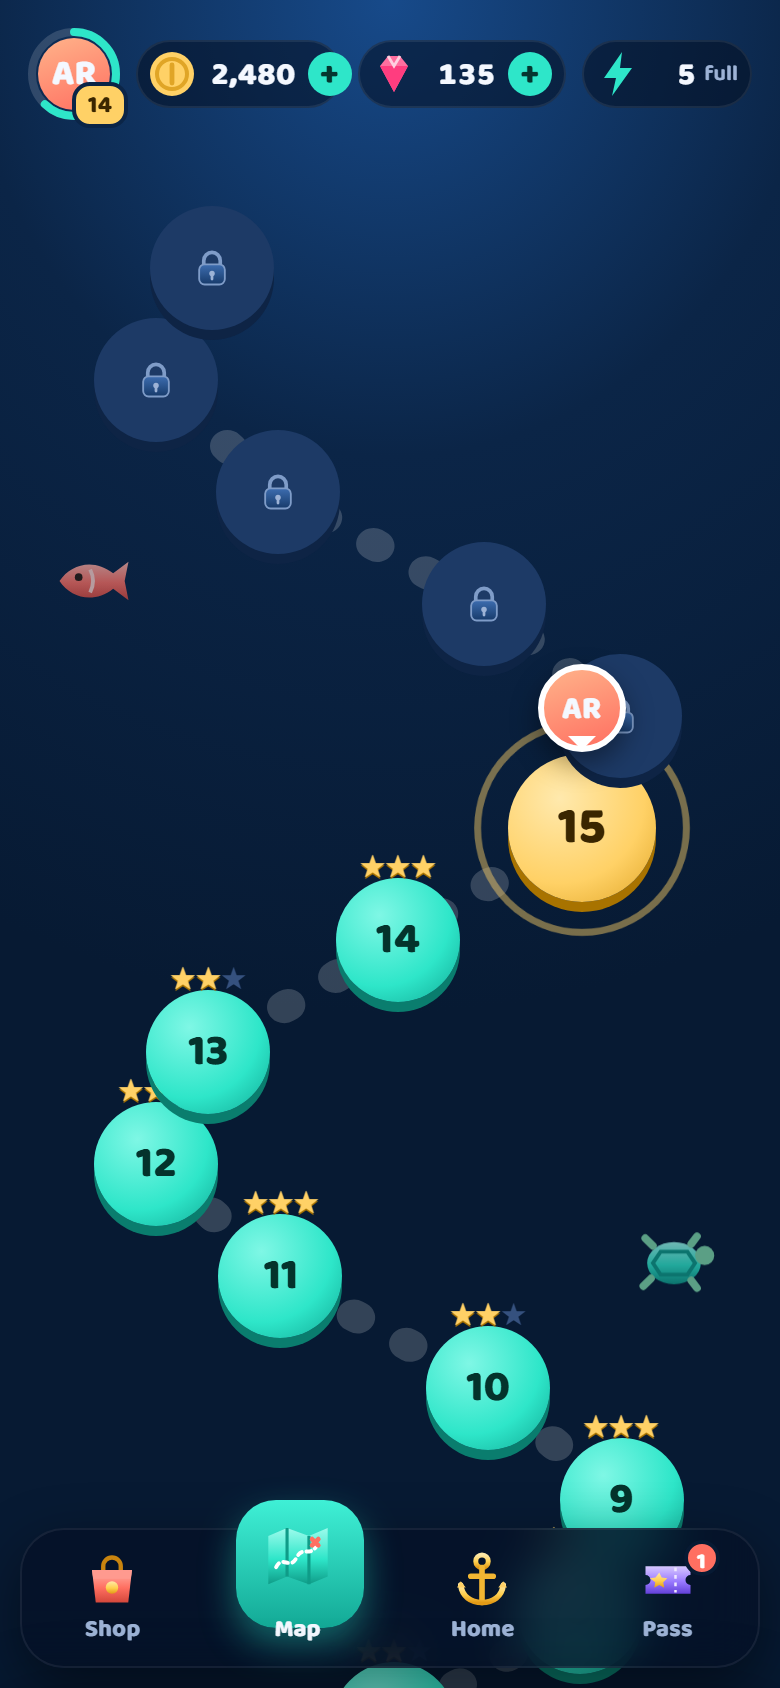
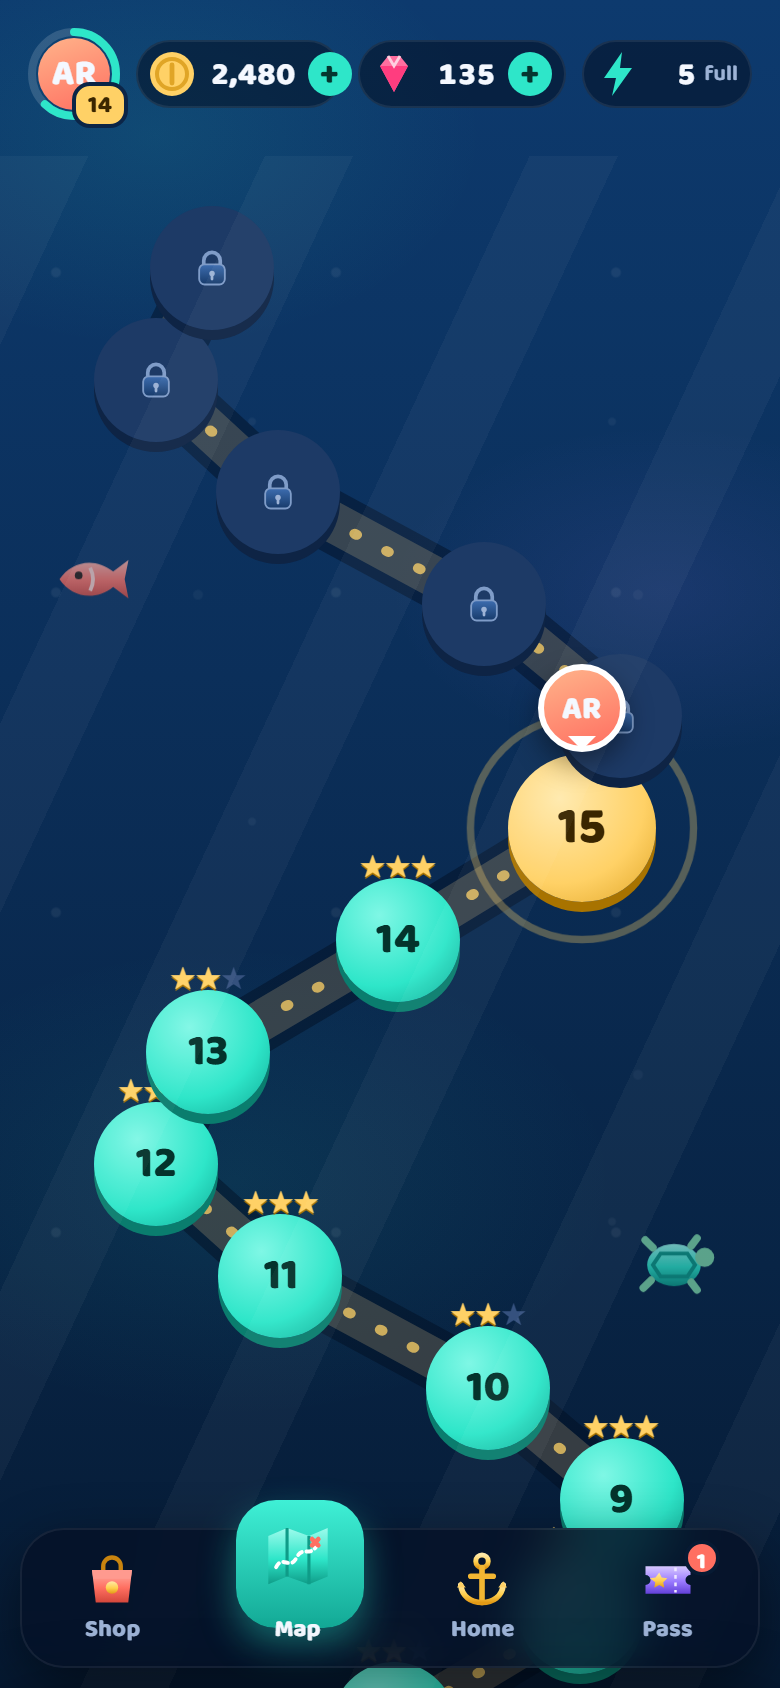
Seabed map: light rays, drifting particles, sand path

diff --git a/app.html b/app.html
@@ -103,7 +103,16 @@ h2{margin:6px 0 12px;font-size:26px;line-height:1;font-weight:800;letter-spacing
 .quest .claim{height:34px;padding:0 12px;font-size:15px;border-radius:12px}
 
 /* ---------- map ---------- */
-#map{padding-left:0;padding-right:0}
+#map{padding-left:0;padding-right:0;background:
+  radial-gradient(60% 18% at 20% 8%,rgba(46,230,201,.10),transparent 70%),
+  radial-gradient(50% 14% at 85% 35%,rgba(155,123,255,.10),transparent 70%),
+  radial-gradient(70% 20% at 30% 70%,rgba(46,230,201,.08),transparent 70%),
+  linear-gradient(180deg,#0d3a6e 0%,#0b2f5a 40%,#082445 75%,#061a33 100%)}
+.map-wrap::before{content:"";position:absolute;inset:0;pointer-events:none;opacity:.35;
+  background-image:radial-gradient(circle at 20% 30%,rgba(255,255,255,.18) 0 2px,transparent 3px),radial-gradient(circle at 70% 60%,rgba(255,255,255,.14) 0 1.5px,transparent 2.5px),radial-gradient(circle at 45% 85%,rgba(255,255,255,.12) 0 2px,transparent 3px);
+  background-size:140px 160px,180px 200px,220px 240px;animation:drift-up 18s linear infinite}
+@keyframes drift-up{to{background-position:0 -480px,0 -600px,0 -720px}}
+.map-wrap::after{content:"";position:absolute;inset:0;pointer-events:none;background:repeating-linear-gradient(115deg,rgba(255,255,255,.035) 0 40px,transparent 40px 120px);mix-blend-mode:screen}
 .map-wrap{position:relative;height:1180px}
 .map-wrap svg.path{position:absolute;inset:0;width:100%;height:100%}
 .node{position:absolute;width:62px;height:62px;margin:-31px 0 0 -31px;border-radius:50%;display:grid;place-items:center;font-weight:800;font-size:22px;transition:transform .2s var(--ease-out)}
@@ -314,7 +323,7 @@ canvas#fx{position:absolute;inset:0;width:100%;height:100%;z-index:80;pointer-ev
   <!-- MAP -->
   <section class="screen off-right" id="map">
     <div class="map-wrap" id="mapWrap">
-      <svg class="path" viewBox="0 0 360 1180" preserveAspectRatio="none"><path id="mapPath" d="" fill="none" stroke="rgba(255,255,255,.18)" stroke-width="16" stroke-linecap="round" stroke-dasharray="2 26"/></svg>
+      <svg class="path" viewBox="0 0 360 1180" preserveAspectRatio="none"><path id="mapPathBase" d="" fill="none" stroke="rgba(3,14,32,.45)" stroke-width="30" stroke-linecap="round" stroke-linejoin="round"/><path id="mapPathSand" d="" fill="none" stroke="#e8c98f" stroke-opacity=".22" stroke-width="20" stroke-linecap="round" stroke-linejoin="round"/><path id="mapPath" d="" fill="none" stroke="#ffd166" stroke-opacity=".75" stroke-width="5" stroke-linecap="round" stroke-dasharray="1 16"/></svg>
       <div class="map-deco" style="left:24px;top:180px"><svg class="ico" aria-hidden="true"><use href="#i-fish"/></svg></div><div class="map-deco" style="right:30px;top:520px;animation-delay:-1s"><svg class="ico" aria-hidden="true"><use href="#i-turtle"/></svg></div>
       <div class="map-deco" style="left:30px;top:820px;animation-delay:-2s"><svg class="ico" aria-hidden="true"><use href="#i-coral"/></svg></div><div class="map-deco" style="right:40px;top:1000px;animation-delay:-3s"><svg class="ico" aria-hidden="true"><use href="#i-fish"/></svg></div>
     </div>
@@ -499,7 +508,7 @@ const NODES = [];
     const y = 1120 - (i - 1) * 56, x = 180 + Math.sin(i * 0.9) * 110;
     NODES.push({ x, y }); d += (i === 1 ? "M" : "L") + x + " " + y + " ";
   }
-  $("#mapPath").setAttribute("d", d);
+  ["#mapPath", "#mapPathBase", "#mapPathSand"].forEach(id => $(id).setAttribute("d", d));
   NODES.forEach((p, k) => {
     const n = document.createElement("button");
     n.className = "node"; n.style.left = (p.x / 360 * 100) + "%"; n.style.top = p.y + "px";
